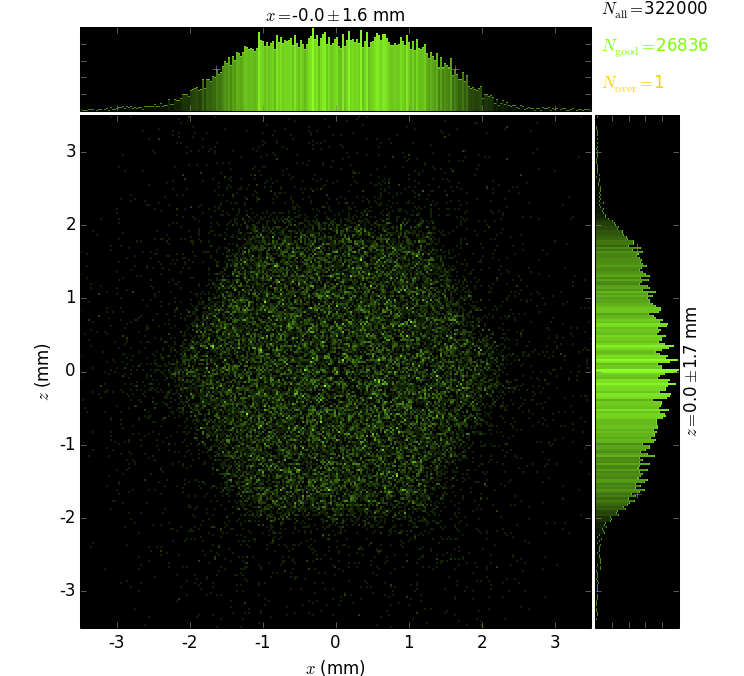
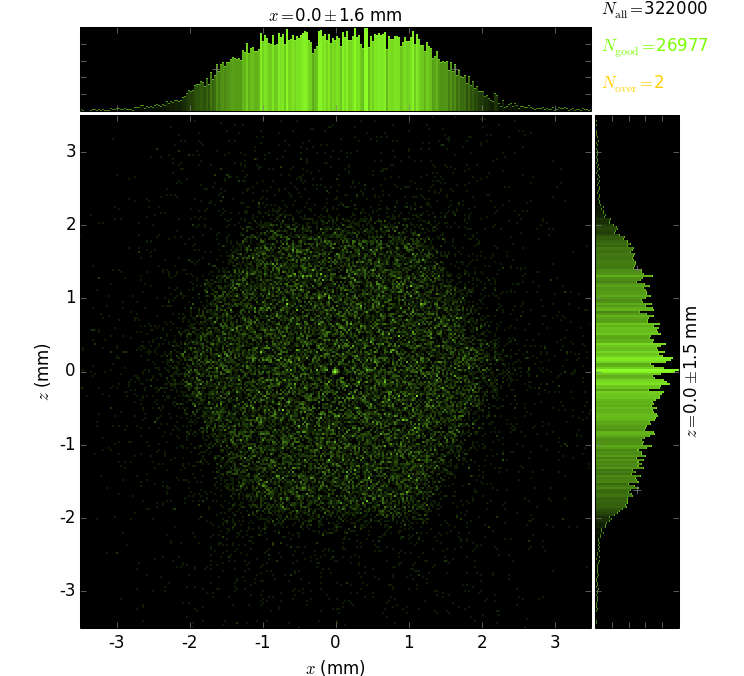
d = f+500

diff --git a/myCapillary0A.py b/myCapillary0A.py
@@ -126,7 +126,7 @@ def build_beamline(nrays=1000):
 #    beamLine.sources[0].dxprime = (np.arcsin((2*n-3) * (r0+wall) / rSample),
 #        np.arcsin((2*n+1) * (r0+wall) / rSample))
 #    beamLine.sources[0].dxprime = 0, np.arcsin(r0 / rSample)
-    beamLine.fsm2 = rsc.Screen(beamLine, 'DiamondFSM2', (0, f+475, 0))
+    beamLine.fsm2 = rsc.Screen(beamLine, 'DiamondFSM2', (0, f+500, 0))
     return beamLine
 
 def run_process(beamLine, shineOnly1stSource=False):
